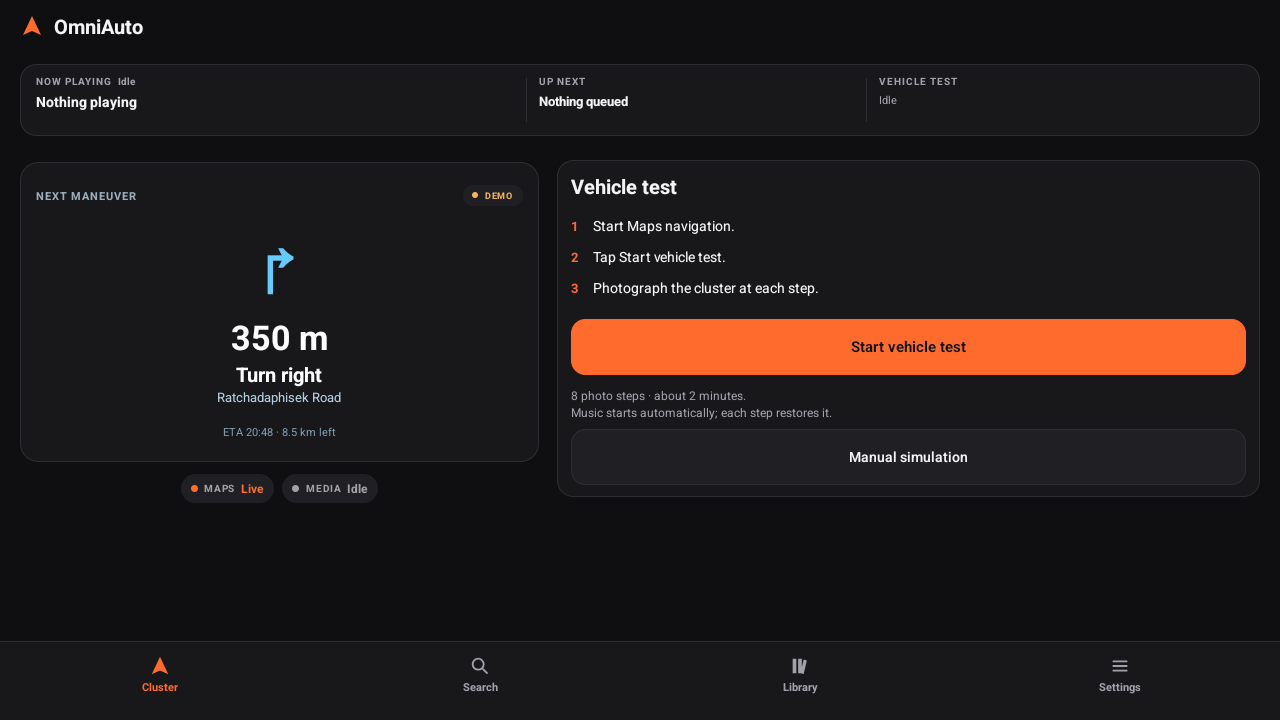
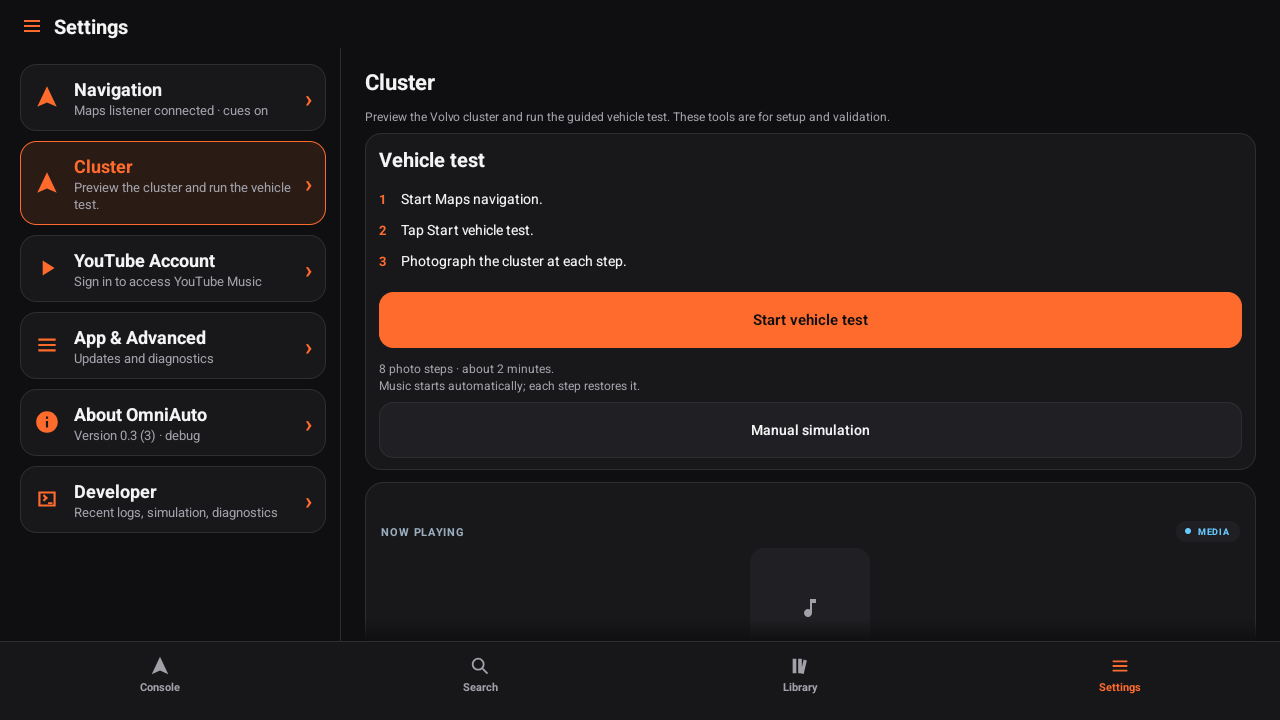
Refresh the site screenshot for the current Cluster page

diff --git a/index.html b/index.html
@@ -219,7 +219,7 @@
         <div class="cluster">
           <img
             src="screenshots/cluster-page.png"
-            alt="OmniAuto Cluster page with a navigation cue, vehicle test and live media status"
+            alt="OmniAuto Settings Cluster page with the guided vehicle test above the cluster preview"
             loading="lazy"
           />
           <div>
